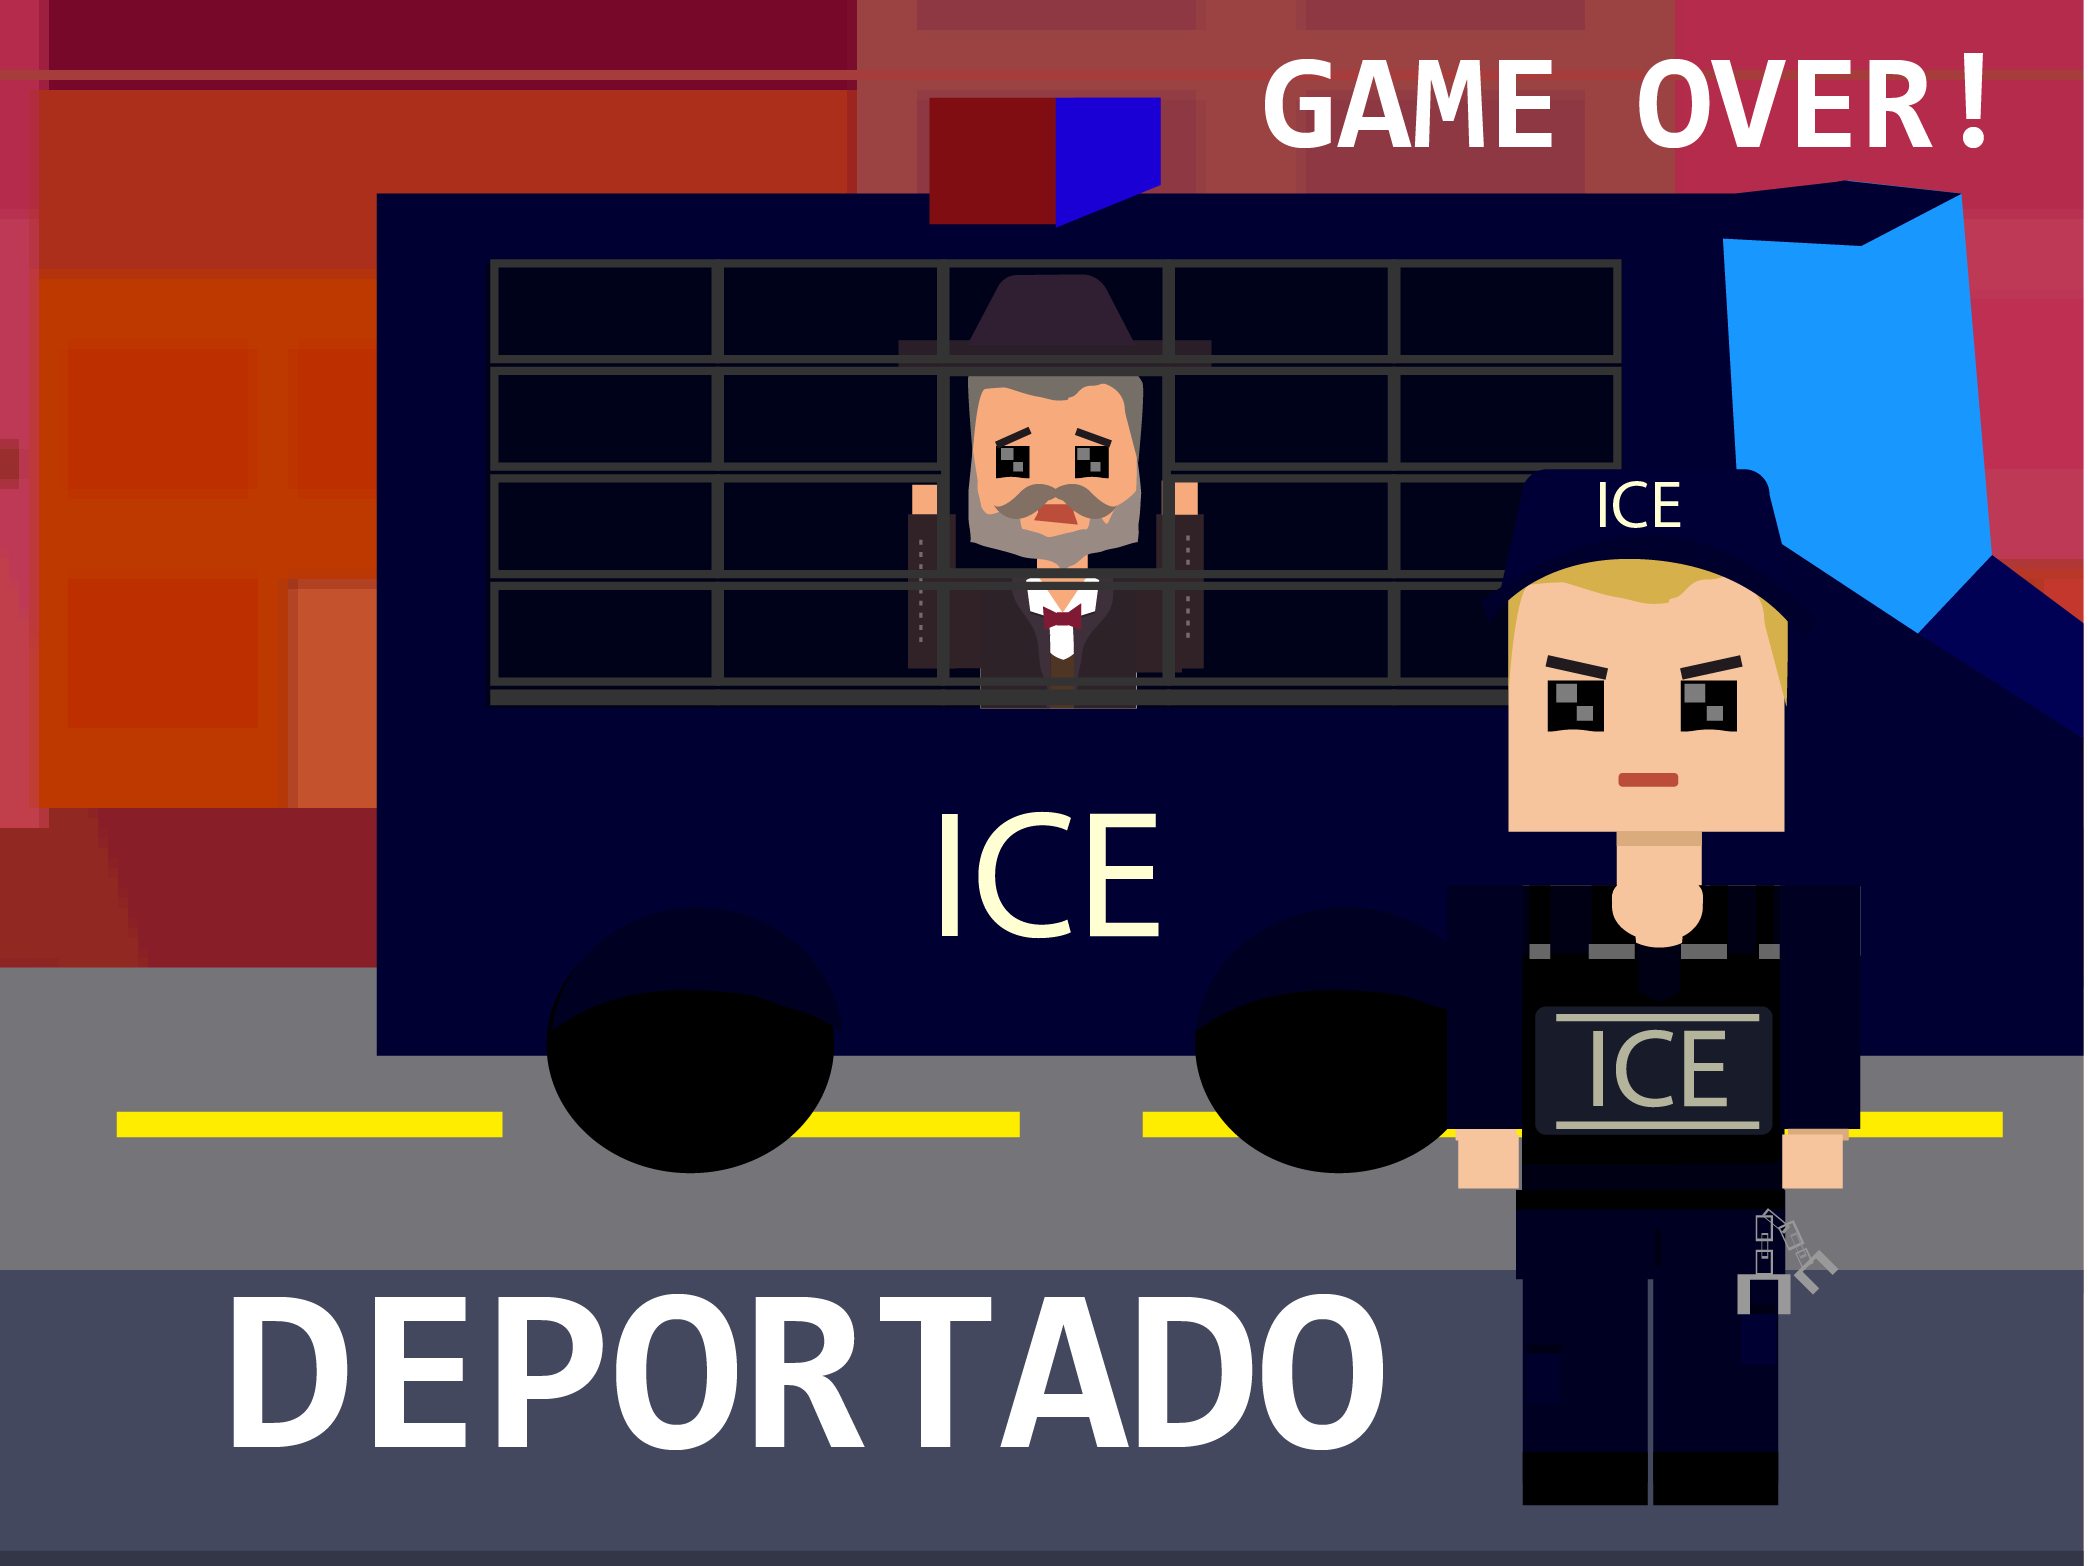
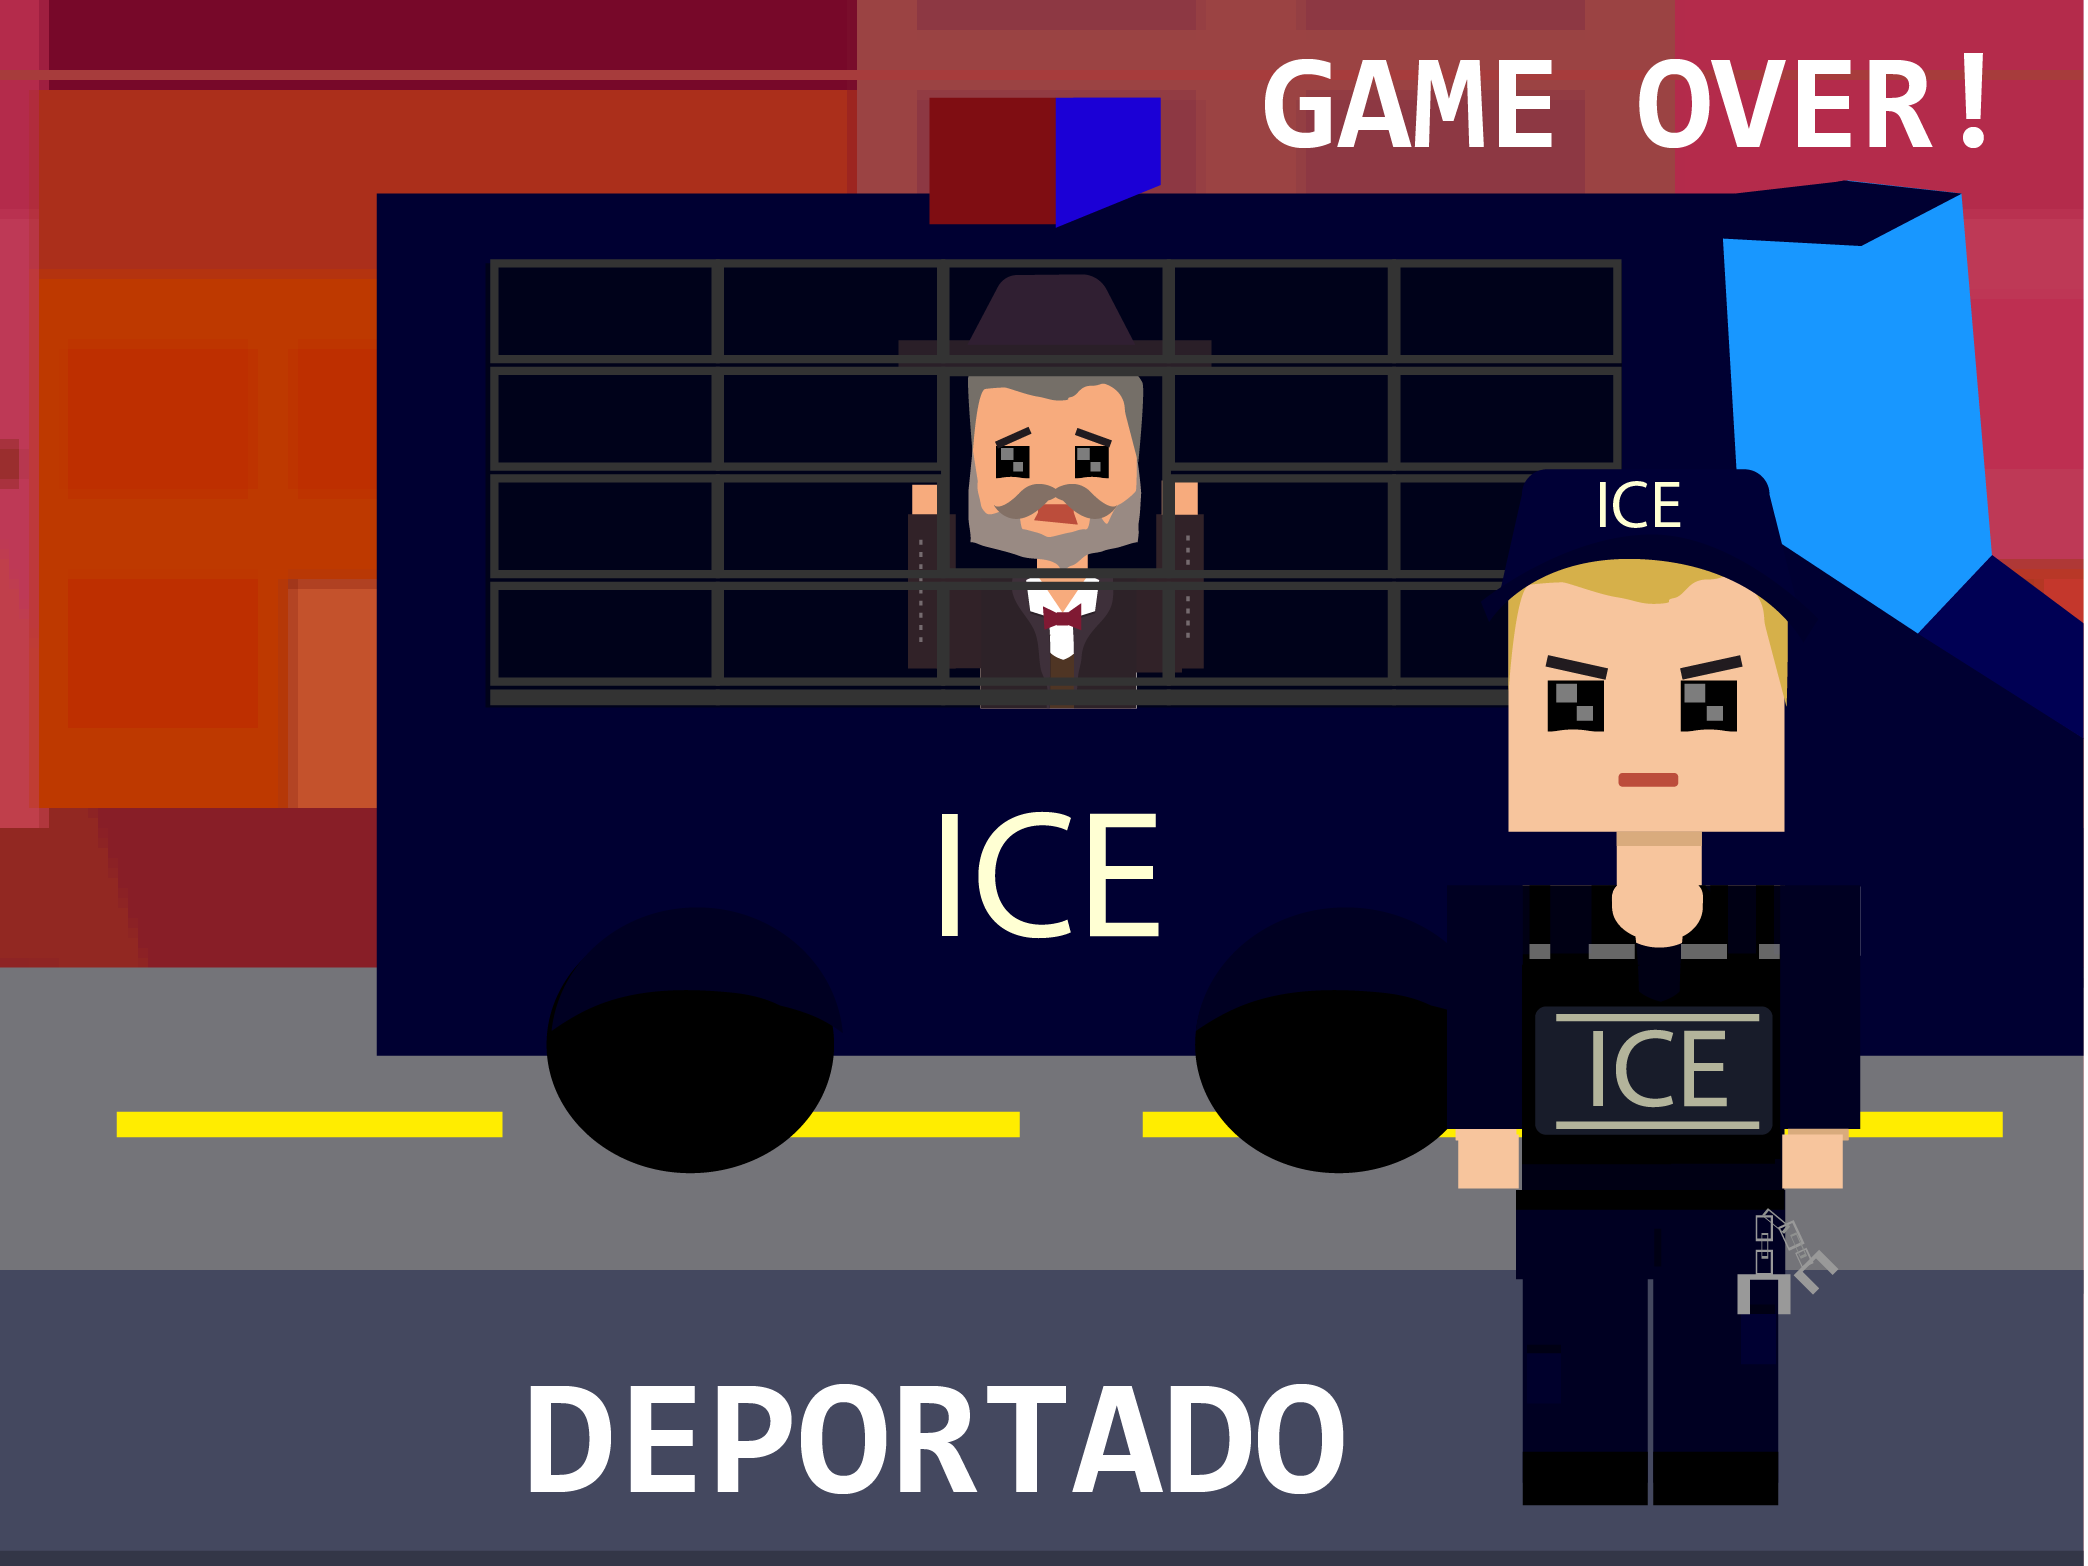
correciones pantallas

Changed region(s): [[0.0934, 0.8276, 0.6849, 0.9502]]

diff --git a/AN/js/gameOver.js b/AN/js/gameOver.js
@@ -3,7 +3,7 @@ class GameOver extends Phaser.Scene {
         super('gameOver');
     }
     preload() {
-        this.load.image('gameover_img', '../assets/imagen_derrota.png'); 
+        this.load.image('gameover_img', '../assets/imagen_derrota.png');
     }
 
     create() {
@@ -12,23 +12,52 @@ class GameOver extends Phaser.Scene {
         const centerX = this.scale.width / 2;
         const centerY = this.scale.height / 2;
 
-        // Imagen de Game Over centrada
-        this.add.image(centerX, centerY, 'gameover_img').setOrigin(0.5);
+        // Imagen de Game Over 
+        this.add.image(0, 0,'gameover_img').setOrigin(0.0).setDisplaySize(800, 600);
 
-     
+        // Botón de reintentar------------------------
 
-        // Botón de reintentar
+        // Fondo animado del botón
+        const btnWidth = 300;
+        const btnHeight = 80;
+        const btnRadius = 40;
+        const btnX = centerX;
+        const btnY = centerY + 150;
 
-         const boton = this.add.text(centerX, centerY + 150, 'Reintentar', {
+        // Dibuja el fondo del botón con bordes redondeados
+        const botonFondo = this.add.graphics();
+        botonFondo.fillStyle(0xff0000, 1);
+        botonFondo.fillRoundedRect(btnX - btnWidth / 2, btnY - btnHeight / 2, btnWidth, btnHeight, btnRadius);
+
+        const botonHitbox = this.add.rectangle(btnX, btnY, btnWidth, btnHeight)
+            .setOrigin(0.5)
+            .setInteractive({ useHandCursor: true });
+
+        // Texto centrado sobre el botón
+        const botonTexto = this.add.text(btnX, btnY, 'REINTENTAR', {
             fontSize: '32px',
-            backgroundColor: '#ffffff',
-            color: '#000',
-            padding: { x: 10, y: 5 }
-        })
-        .setOrigin(0.5)
-        .setInteractive({ useHandCursor: true })
-        .on('pointerdown', () => {
-            this.scene.start('default'); // Vuelve a la escena principal
+            fontFamily: 'Arial',
+            fontStyle: 'bold',
+            color: '#ffffff'
+        }).setOrigin(0.5)
+            .setInteractive({ useHandCursor: true });
+
+        // Efecto sirena: alternar color del fondo
+        this.time.addEvent({
+            delay: 500,
+            loop: true,
+            callback: () => {
+                const currentColor = botonFondo.defaultFillColor;
+                const nextColor = currentColor === 0xff0000 ? 0x0044ff : 0xff0000;
+                botonFondo.clear();
+                botonFondo.fillStyle(nextColor, 1);
+                botonFondo.fillRoundedRect(btnX - btnWidth / 2, btnY - btnHeight / 2, btnWidth, btnHeight, btnRadius);
+                botonFondo.defaultFillColor = nextColor; // Guardamos el nuevo color
+            }
         });
+        botonFondo.defaultFillColor = 0xff0000; // Iniciamos el color
+        const volverAJugar = () => this.scene.start('default');
+        botonHitbox.on('pointerdown', volverAJugar);
+        botonTexto.on('pointerdown', volverAJugar);
     }
 }

diff --git a/AN/js/juegoSuperado.js b/AN/js/juegoSuperado.js
@@ -6,14 +6,7 @@ class JuegoSuperado extends Phaser.Scene {
         this.load.image('victoria_img', '../assets/imagen_victoria.png'); 
     }
     create() {
-        const centerX = this.scale.width / 2;
-        const centerY = this.scale.height / 2;
-
-       this.add.image(centerX, centerY, 'victoria_img')
-    .setOrigin(0.2)
-    .setScale(0.2);
-
-       
+       this.add.image(0, 0,'victoria_img').setOrigin(0.0).setDisplaySize(800, 600);       
     }
 }
 
